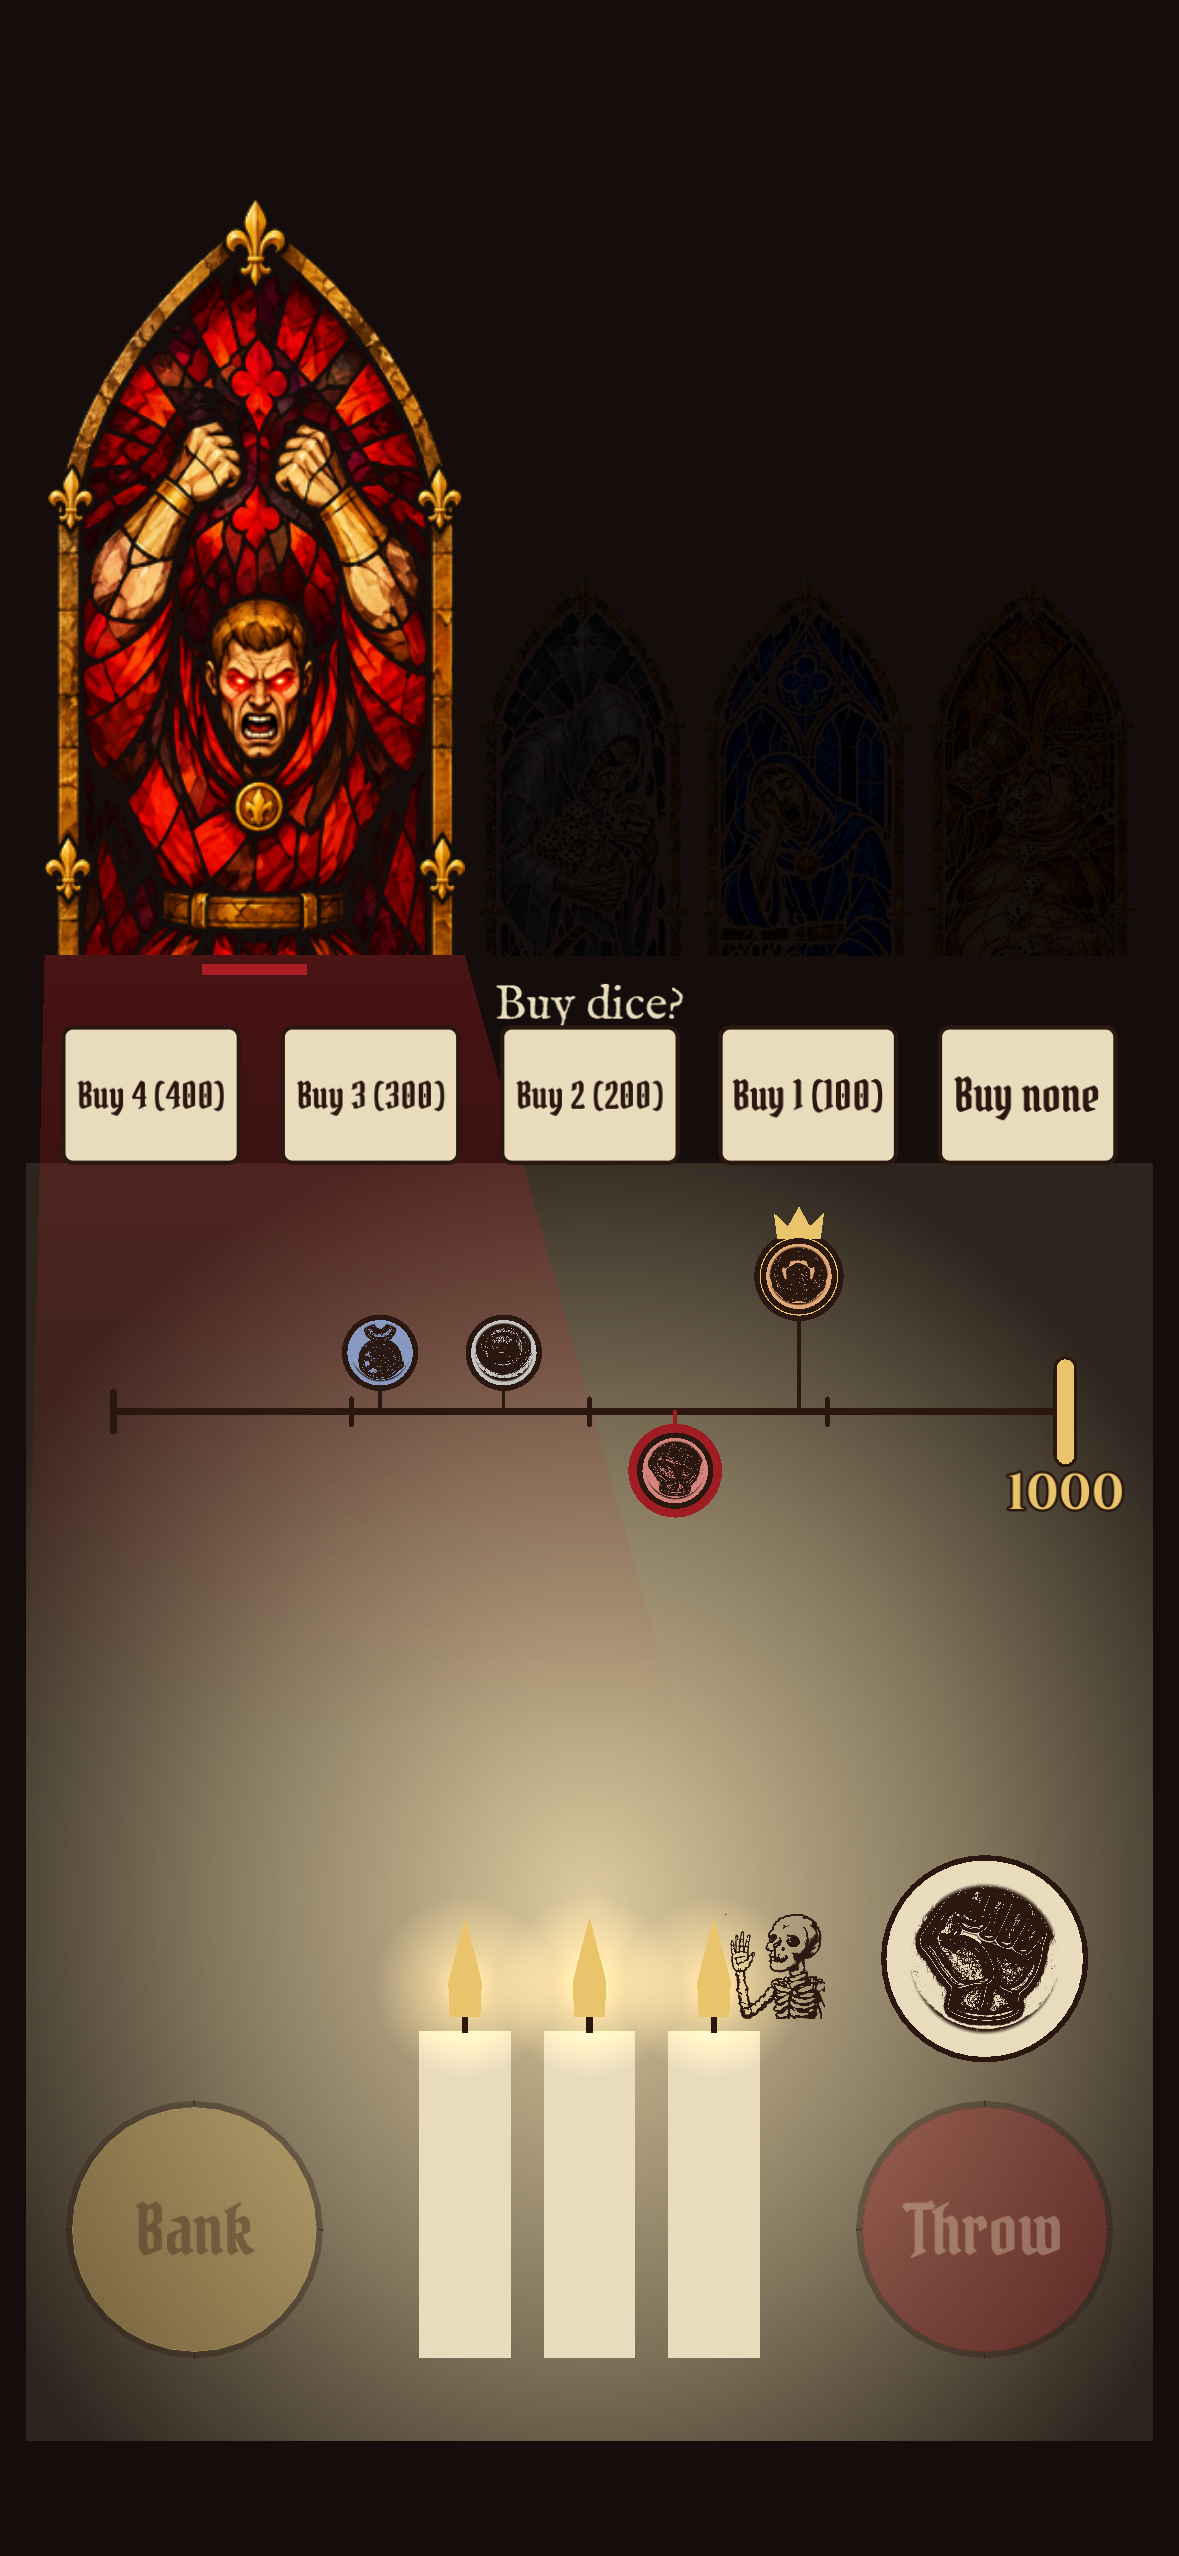
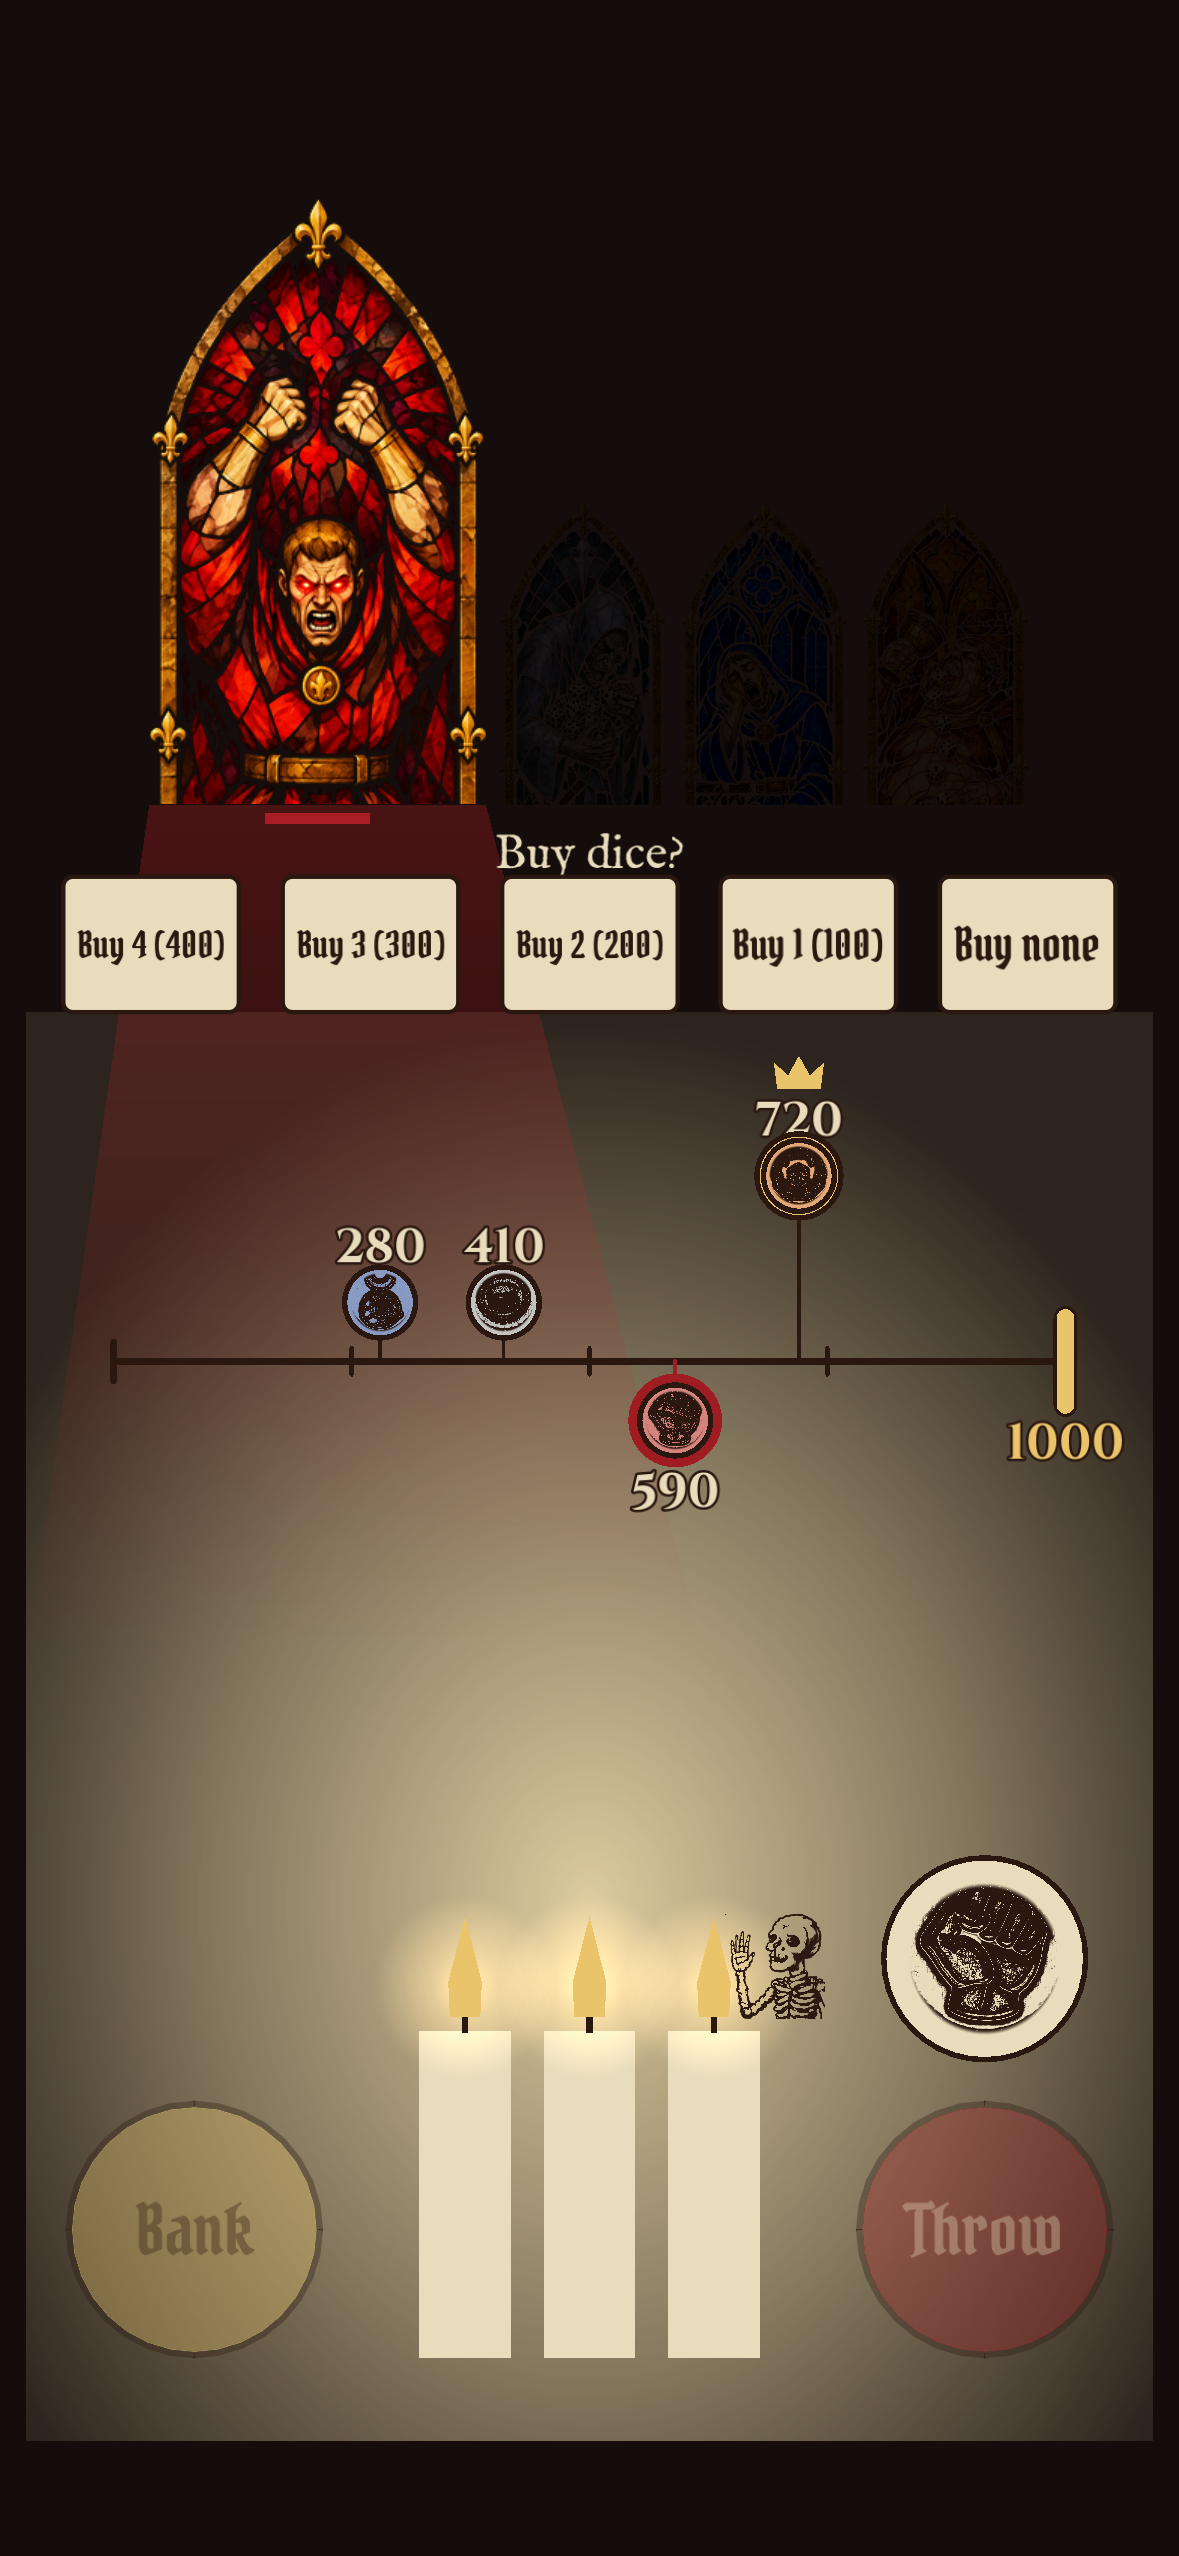
review: packet for REPLY 12 (totals, old board, roll and bust audit, bank caps); REPLY 11 packet archived

Changed region(s): [[0.0305, 0.0618, 0.9771, 0.6182]]

diff --git a/Docs/review/latest/packet.md b/Docs/review/latest/packet.md
@@ -1,24 +1,19 @@
-# Packet: REPLY 11 (buy ghosts, Master's line, post number, bots under the call; pushed)
-**Built and pushed:** b779693 run_all fails a test on any FAILED line · 2c9478d buy ghost shows only while its button is held, no tie lines; the Master's line is centred above the dice band with a bone edge; the post's "600" is bone on ink · 5169ee6 under the call the Master's {win} reads the called target · 0afd5c9 under the call, bots drop the 1000 bank-to-win; behind in the penultimate round they chase half the gap; progress counts rounds left. TestFlight build 116 (run 43912590756) started from main.
-**Suite:** all 10 pass. **Text audit (std):** every table fixture is clean. The Master's line needed its bone edge to pass under a seat's cone of light (it was 3.9:1).
-**Sheet:** before and after, left to right: table_buy, table_buy_press, table_master_call, table_master_final. Full-size after shots are in this folder (plus table_buy_many and table_master).
-**Seen in the shots:** the "Buy none" press shows no ghost, by design (it leaves me where I am). Under the call, the Master's line sits below the "600", clear of the candles and the skeleton.
-**Profile sim** (seed 1, 20000 mixed; odd seats 4000 each):
-
-| | 1000, no call (REPLY 10) | call at 600, new bots |
-|---|---|---|
-| Sin range | 21.2-31.5 | 19.3-33.1 |
-| Envy / Greed overall | 31.5 / 25.1 | 33.1 / 32.1 |
-| Envy+Banker | 39.8 | 40.6 |
-| Greed+Banker | under 31.6 (not in the top six) | 41.5 |
-| Last seat entering the final round wins | 6.8% (559 behind) | 3.9% (769 behind) |
-| Rounds / final margin | 4.53 / 407 | 5.03 / 351 |
-| Comebacks (last at half wins) | 13.0% | 18.0% |
-| Odd seat: Novice / Banker / Forgetter | 18.4 / 18.8 / 11.4 | 19.5 / 22.6 / 12.2 |
-
-Note: the base table was run with REPLY 10's bots, but nothing changed for games without the call.
+# Packet: REPLY 12 (totals, old board, roll and bust audit, bank caps; local, not pushed)
+**Built:** a6c35bf every total at its track marker (bone on ink; above a rival's head with its crown above, under mine; heads on a level spread to fit) · 79fdfa9 old board out of the build · 3d006db the Master's win line reads the winner's score · 39500f4 sim audit, roll audit, turn_cap and first_ones. Suite: all 10 pass. Text audit: all 28 table fixtures clean at se and std (new: table_end).
+**How a player reached the old board in 116:** (1) the game end. With a winner the table hid itself, and main's old board showed (banner, final scores, chain "x3.5", "New game"). That matches your 1725. (2) The table also hides under an offer, a page, settings or the log, with the old board drawn beneath. (3) Settings > Tutorial ran the V3 tutorial on the old board. **Now:** the game ends on the table ("New game" in the choice row). A dark cover hides the old board's scores and dice whenever the table steps aside (the thumb row stays, since offers use it), and the tutorial row is gone from the table build.
+**Sheet:** before and after: table_master_call, table_buy; then after only: table_close_7 (7 seats), table_end. Seen: with totals the band grows, so 7-seat windows shrink. The totals of the two head levels sit close. On table_end, my 640 sits over the post's 600.
+**Roll audit (1M dice each, raw throws before any power):** Rules.roll 33.35% Strikes, chi 8.4 · player seat 33.35%, chi 1.9 · bots 33.34%, chi 7.3 (fair is below 11.07). The dice are fair and the same for everyone.
+**Why it busts:** the chance that one throw from scratch reaches 3 Strikes, exactly: 3 dice 4%, 4 dice 11%, 5 dice 21%, 6 dice 32%, 7 dice 43%, 8 dice 53%. Per throw in play (Novice / Gambler): 3 dice 12/16%, 5 dice 33/27%, 6 dice 31/36%, 8 dice 55/41%. Per turn: Novice 28-44%, Gambler 50-56%. Turns banking 0: 42% overall, Gambler 53%.
+**Banks (call at 600):** median / p90 / max: round 1 110/315/1390, round 2 130/405/2205, round 4 45/435/2185. Points come 46% from faces, **44% from the chain multiplier**, and 10% from everything else.
+**Tests** (20000 mixed games, call at 600; Sin range · lead after round 2 over 2nd / last · last seat wins · zero-bank turns):
+- base: 19.3-33.1 · 202 / 445 · 3.9% · 42.3%
+- (a) cap 300 before the call: 17.1-34.9 · 165 / 378 · 4.9% · 40.8% (Greed 34.9: Cash Out multiplies the capped bank)
+- (a) cap 400: 18.4-33.3 · 177 / 409 · 4.4% · 41.6%
+- (b) only 1s strike on the first throw: 14.0-38.6 · 222 / 498 · 3.7% · 38.6% (Envy 38.6, Greed 37.0)
+- Greed Cash Out x1.25: 20.3-34.8; Greed drops 32.1 → 24.5, and Envy (34.8) is now on top.
 
 **Questions**
-1. Greed rises to 32% under the call (Greed+Banker 41.5), because banking steadily pays when the end is called. Should I sim Greed's Cash Out at x1.25 under the call (sim only)? Rec: yes.
-2. The last seat wins 3.9% from the final round: the gap at the call (769) is too big for one turn. Rec: accept it for the prototype and judge it in play.
-3. The "{win}. I'm genuinely impressed." line now says "600", even when the winner is far past it. Use the winner's score instead? Rec: yes.
+1. The chain multiplier makes up 44% of all points and causes the spikes. Should I sim chain 0.25 (from 0.5) under the call? Rec: yes, before any cap.
+2. Cap 300 narrows the lead after round 2 by about 40 but widens the Sin range. Should I test it with the cap applied after Cash Out? Rec: hold it until question 1 is answered.
+3. Only-1s on the first throw cuts zero-bank turns by 4 points but feeds Envy and Greed. Drop it? Rec: drop it.
+4. Greed x1.25 brings Greed back to fair. Make it the next sim baseline (still sim only)? Rec: yes.

diff --git a/Docs/review/archive/2026-11-16-reply11/packet.md b/Docs/review/archive/2026-11-16-reply11/packet.md
@@ -1,0 +1,24 @@
+# Packet: REPLY 11 (buy ghosts, Master's line, post number, bots under the call; pushed)
+**Built and pushed:** b779693 run_all fails a test on any FAILED line · 2c9478d buy ghost shows only while its button is held, no tie lines; the Master's line is centred above the dice band with a bone edge; the post's "600" is bone on ink · 5169ee6 under the call the Master's {win} reads the called target · 0afd5c9 under the call, bots drop the 1000 bank-to-win; behind in the penultimate round they chase half the gap; progress counts rounds left. TestFlight build 116 (run 43912590756) started from main.
+**Suite:** all 10 pass. **Text audit (std):** every table fixture is clean. The Master's line needed its bone edge to pass under a seat's cone of light (it was 3.9:1).
+**Sheet:** before and after, left to right: table_buy, table_buy_press, table_master_call, table_master_final. Full-size after shots are in this folder (plus table_buy_many and table_master).
+**Seen in the shots:** the "Buy none" press shows no ghost, by design (it leaves me where I am). Under the call, the Master's line sits below the "600", clear of the candles and the skeleton.
+**Profile sim** (seed 1, 20000 mixed; odd seats 4000 each):
+
+| | 1000, no call (REPLY 10) | call at 600, new bots |
+|---|---|---|
+| Sin range | 21.2-31.5 | 19.3-33.1 |
+| Envy / Greed overall | 31.5 / 25.1 | 33.1 / 32.1 |
+| Envy+Banker | 39.8 | 40.6 |
+| Greed+Banker | under 31.6 (not in the top six) | 41.5 |
+| Last seat entering the final round wins | 6.8% (559 behind) | 3.9% (769 behind) |
+| Rounds / final margin | 4.53 / 407 | 5.03 / 351 |
+| Comebacks (last at half wins) | 13.0% | 18.0% |
+| Odd seat: Novice / Banker / Forgetter | 18.4 / 18.8 / 11.4 | 19.5 / 22.6 / 12.2 |
+
+Note: the base table was run with REPLY 10's bots, but nothing changed for games without the call.
+
+**Questions**
+1. Greed rises to 32% under the call (Greed+Banker 41.5), because banking steadily pays when the end is called. Should I sim Greed's Cash Out at x1.25 under the call (sim only)? Rec: yes.
+2. The last seat wins 3.9% from the final round: the gap at the call (769) is too big for one turn. Rec: accept it for the prototype and judge it in play.
+3. The "{win}. I'm genuinely impressed." line now says "600", even when the winner is far past it. Use the winner's score instead? Rec: yes.
